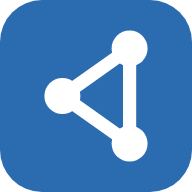
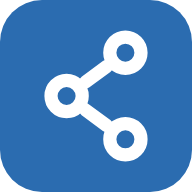
Use hollow nodes in the mark
The chosen variant has rings instead of dots and two lines from the
left node to the two on the right; the ink keeps the Dataspatium
margins. Icons and favicon re-rendered.

Generated with the assistance of an AI coding tool.

Changed region(s): [[0.25, 0.1562, 0.7812, 0.8438], [0.2188, 0.4375, 0.25, 0.5], [0.2188, 0.5312, 0.25, 0.5625]]

diff --git a/docs/ui-styleguide.md b/docs/ui-styleguide.md
@@ -61,11 +61,12 @@ Change the brand in `tokens.css` only: `--color-accent` and its `-strong` and
 ## Mark
 
 The server's mark is the sibling of Dataspatium's: where Dataspatium shows
-three stacked sheets, Kontroll shows three connected nodes (a graph), one at
-the middle left and two at the right, white on the same blue plate `#2b6cb0`
-with corner radius 7 in a 32-unit square, lines at the same stroke width 2.2
-and dots of radius 3. The white ink keeps Dataspatium's margins exactly
-(x 7.4–24.6, y 5.08–26.92 of the box). The source is
+three stacked sheets, Kontroll shows three connected nodes (a graph): hollow
+rings of radius 2.6, one at the middle left joined by two lines to the two at
+the right, white on the same blue plate `#2b6cb0` with corner radius 7 in a
+32-unit square, everything at the same stroke width 2.2. The white ink keeps
+Dataspatium's margins exactly (x 7.4–24.6, y 5.08–26.92 of the box). The
+source is
 `opencde/ui/static/icon.svg`; `icon-32.png`, `icon-180.png`, `icon-192.png`,
 `icon-512.png` and `favicon.ico` are rendered from it (the PNGs with Edge
 headless on a transparent background, the ICO wrapping the 16, 32 and 48 px
